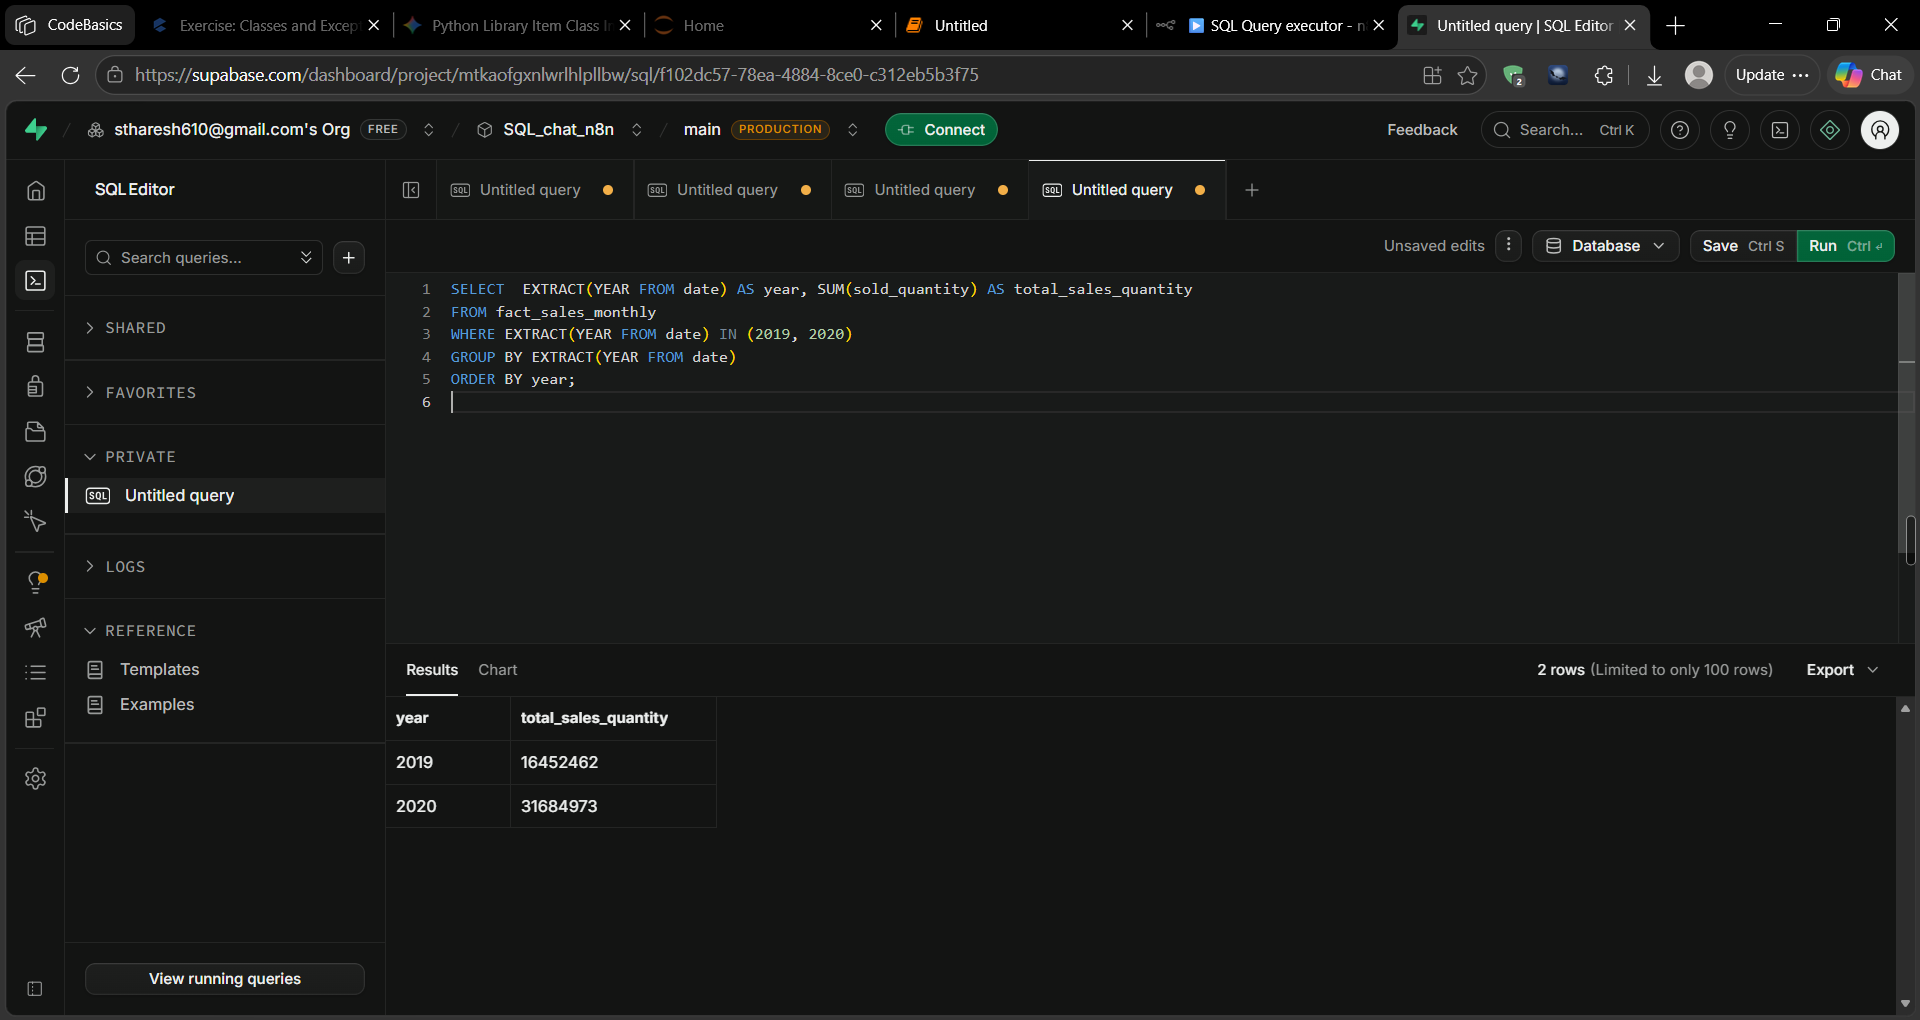
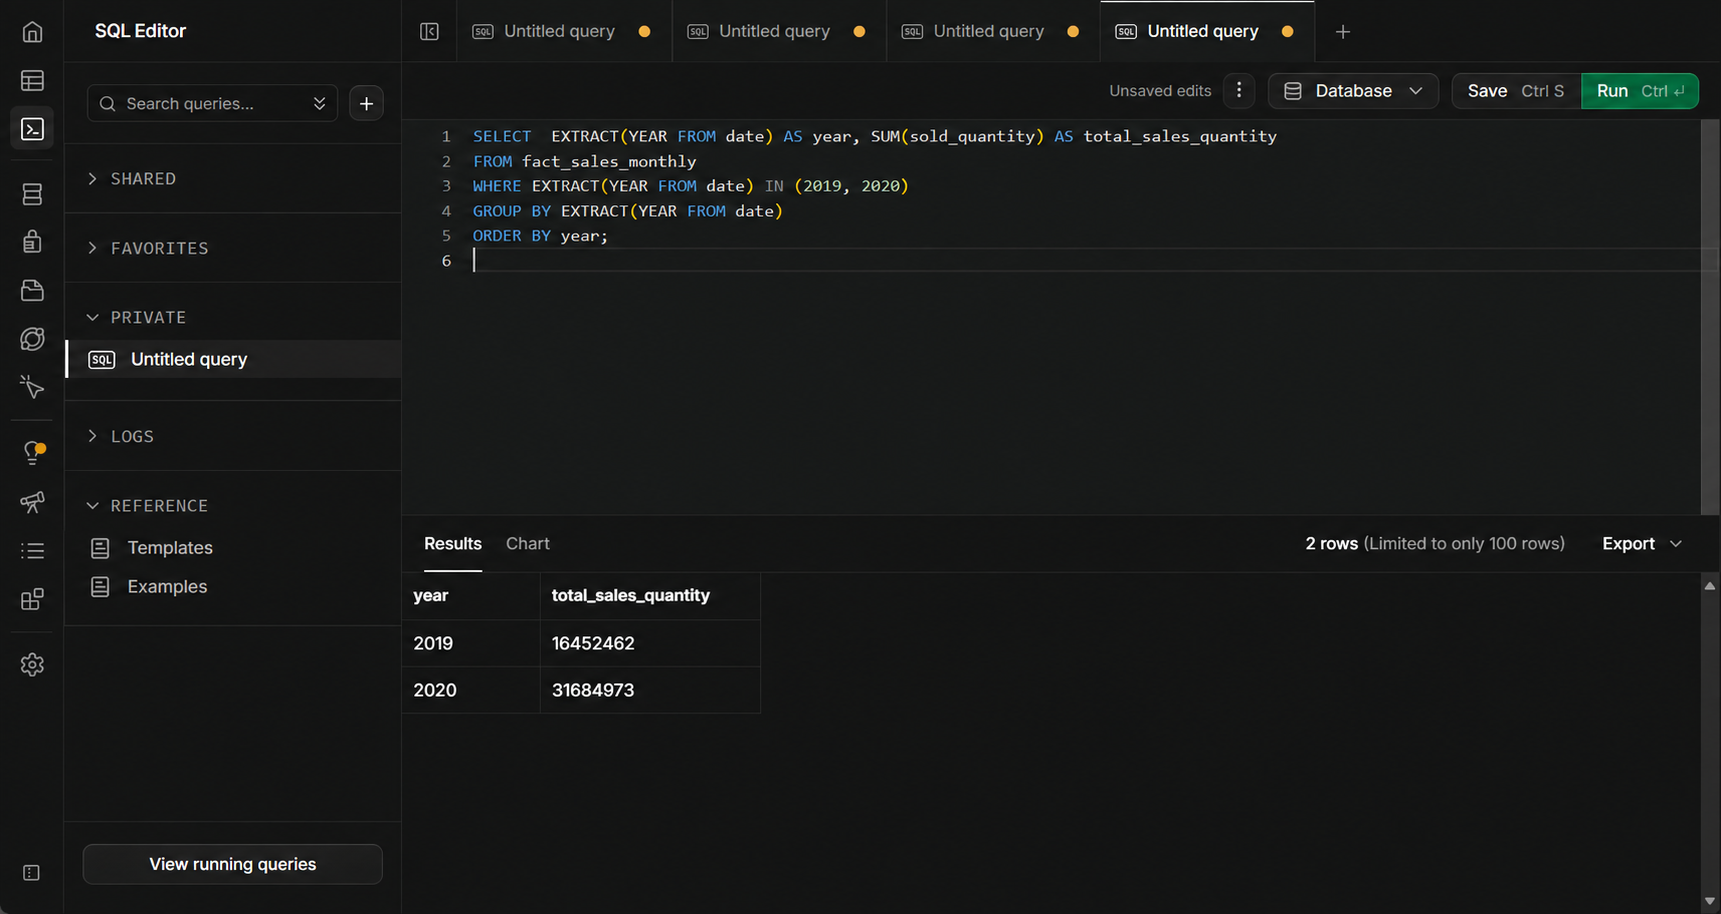
Add sanitized workflows and setup guide
Adds sanitized n8n workflow exports, setup and architecture documentation, an MIT license, and privacy-cleaned validation screenshots.

diff --git a/README.md b/README.md
@@ -14,6 +14,28 @@ User question → AI Agent + Gemini → SQL query → PostgreSQL / Supabase → 
 
 ![Workflow overview](screenshots/workflow-overview.png)
 
+### Why use a separate Query executor workflow?
+
+The main workflow manages the conversation, reads the available database schema, and uses Gemini to generate the required SQL. Generating SQL alone does not produce the answer—the query must still be executed against PostgreSQL.
+
+In this design, the generated SQL cannot be passed directly through the main workflow's fixed schema-reading query. The separate **Query executor** workflow provides a clear execution step:
+
+```text
+Generated SQL
+      ↓
+sql_query input parameter
+      ↓
+Query executor workflow
+      ↓
+PostgreSQL executes the query
+      ↓
+Database rows return to the AI Agent
+      ↓
+Conversational answer
+```
+
+Keeping execution in a sub-workflow gives the AI Agent a reusable tool with one defined input—`sql_query`—while keeping database execution and credentials in a dedicated workflow.
+
 ## Validated examples
 
 ### Total sales quantity in 2020
@@ -95,6 +117,19 @@ Each result above was validated against the PostgreSQL database.
 - PostgreSQL
 - Supabase
 
+## Import and setup
+
+1. Import `workflow/query-executor.json` into n8n.
+2. Configure the PostgreSQL credential on its **Execute a SQL query** node.
+3. Import `workflow/ai-sql-analytics-workflow.json`.
+4. Configure the Gemini credential and the PostgreSQL credential used to read the database schema.
+5. Open **Call 'Query executor'** and select the imported **Query executor** workflow.
+6. Test both workflows before activating the chat workflow.
+
+Use a dedicated read-only PostgreSQL account with access limited to the required analytics schema.
+
 ## Security
 
-This repository must not include API keys, database passwords, connection strings, service-role keys, or exported credential records. Configure secrets through n8n credentials or environment variables, and review workflow exports and screenshots before publishing.
+The published workflow files contain no credential records, API keys, database passwords, connection strings, service-role keys, webhook IDs, or n8n instance identifiers. Configure secrets through n8n credentials or environment variables.
+
+The Query executor runs SQL generated by the AI agent. Use a read-only database role, restrict it to the required schema, and never give this workflow production write or administrative privileges.
